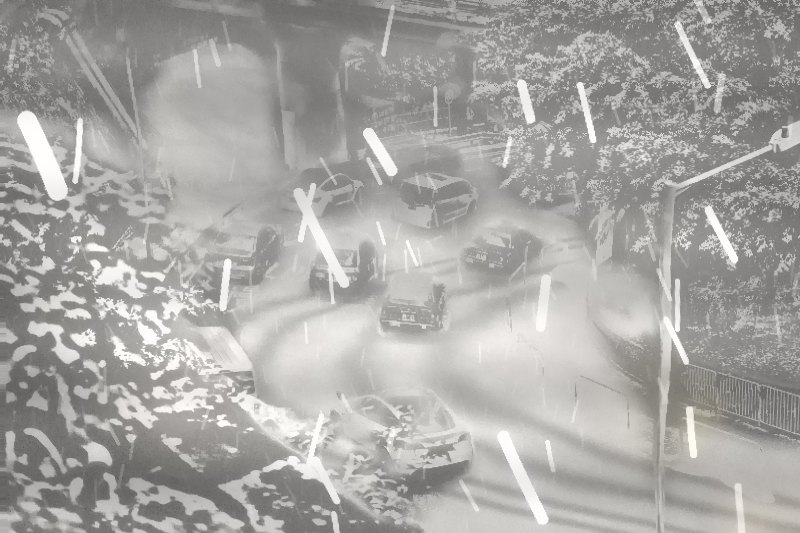
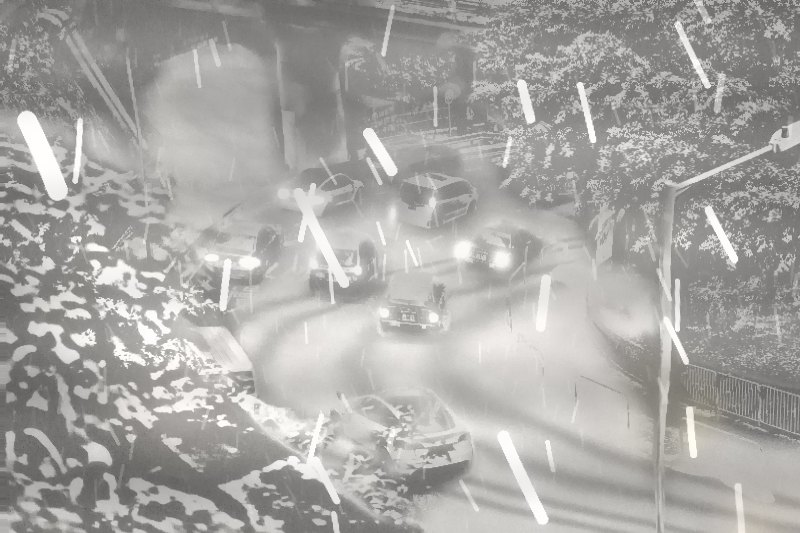
README and guides: what a provider can read, with samples, and lamps at night
The README's provider section covers the four readers, depth, labels,
geometry and vehicle views, with what each says, costs and is licensed
under, how to ask the provider for what it read, and a sample of each at
work. The road surface guide gains lamps at night, the pipelines guide
what a fuller provider changes there, and the scene gallery's infrared
night pictures are redrawn with the lamps lit.

diff --git a/docs/make_road_surface_figures.py b/docs/make_road_surface_figures.py
@@ -1,13 +1,15 @@
 """Draw the figures of ``docs/road_surface.md``.
 
-Four pictures, made from the photographs the galleries use, with a
+Five pictures, made from the photographs the galleries use, with a
 provider that carries scene labels and an estimated geometry:
 
 * the roads as the library reads them: painted lines, lane lines and the
   wheel tracks laid in the lanes;
 * settled snow without wheel tracks and with them;
 * each scene's vehicles as a network reads them: which end, and its lamps;
-* a soaked road as it was, and with its traffic's spray and lamps.
+* a soaked road as it was, and with its traffic's spray and lamps;
+* infrared night without a vehicle reader and with one, which lights the
+  traffic's lamps.
 
 Run from the repository root, on a machine with a CUDA GPU::
 
@@ -30,6 +32,7 @@ sys.path.insert(0, str(REPO))
 
 from docs.generate_scene_examples import SCENES, SCENES_DIR, _load  # noqa: E402
 from surmentations.atmosphere import RandomRain, RandomSnow  # noqa: E402
+from surmentations.camera.night_ir import NightIrMode  # noqa: E402
 from surmentations.depth import DepthAnythingV2Estimator, SharedDepthProvider  # noqa: E402
 from surmentations.perception import (  # noqa: E402
     GroundPlaneGeometryEstimator,
@@ -200,8 +203,25 @@ def compare(
     _save("wheel_tracks.jpg" if effect == "snow" else "wet_road_and_spray.jpg", tiles, 2)
 
 
+def night_lamps(images: dict[str, np.ndarray], depth: Any, labels: Any, vehicles: Any) -> None:
+    """Two scenes as an infrared night camera sees them: without a vehicle reader, and with one.
+
+    The same draw both times. A daylight photograph has its traffic's lamps
+    off; the reader says which end of each vehicle is seen and where its
+    lamps are, and they are lit.
+    """
+    tiles = []
+    for name in ("urban_road_day", "underpass_from_above"):
+        for reader in (None, vehicles):
+            provider = _provider(name, depth, labels, reader)
+            night = NightIrMode(depth_provider=provider, p=1.0)
+            night.set_random_seed(5)
+            tiles.append(night(image=images[name])["image"])
+    _save("night_lamps.jpg", tiles, 2)
+
+
 def main() -> None:
-    """Make the four figures."""
+    """Make the five figures."""
     depth, labels = DepthAnythingV2Estimator(), SegmentationLabelEstimator()
     images = {name: _photograph(name) for name in SHOWN}
     vehicles = OpenVocabularyVehicleEstimator()
@@ -210,6 +230,7 @@ def main() -> None:
     read_vehicles(images, providers)
     compare(images, providers, "snow")
     compare(images, providers, "rain")
+    night_lamps(images, depth, labels, vehicles)
     print(f"Wrote the figures to {OUT_DIR}")
 
 

diff --git a/docs/generate_scene_examples.py b/docs/generate_scene_examples.py
@@ -554,6 +554,8 @@ def _scene_readme(
         "and which only a provider that knows the road and its vehicles can draw. That",
         "provider also has a vehicle reader, which says which end of each vehicle is",
         "seen and where its lamps are; see [the road surface](../../../road_surface.md).",
+        "With that reader `night_ir` lights the traffic's lamps too, as it does whenever",
+        "a provider has one.",
         "",
     ]
     compared = [effect for effect in effects if effect in COMPARED]

diff --git a/README.md b/README.md
@@ -61,7 +61,7 @@ than exposed.
 - **[`docs/examples/scenes/`](docs/examples/scenes/README.md)** — every
   effect over eight photographs of different scenes, one page each, with
   the effects that read the scene shown side by side without and with scene
-  labels and geometry.
+  labels, geometry and the vehicle reader.
 - **[`plan.md`](plan.md)** — design record and roadmap.
 
 ---
@@ -163,45 +163,83 @@ With no CUDA device, constructing `DepthAnythingV2Estimator` raises a
 `RuntimeError` immediately with an actionable message, rather than silently
 falling back to a CPU path slow enough to blow a training-step budget.
 
-### Scene labels and installation geometry — optional
+### What a provider can read — optional
 
-Depth says how far away a pixel is, not what it is, and not where the
-camera stands. The same provider can work out both, once per scene:
+Depth says how far away a pixel is. It does not say what the pixel is,
+where the camera stands, or which way a car is facing. The same provider
+can read each of those, once per scene, and every transform given that
+provider uses whatever it has. Each reader is optional and independent of
+the others, except that the vehicle reader needs the labels to say where
+the vehicles are; a provider given none behaves as it always did.
+
+| Reader | Argument | What it says | Shipped estimator | Cost per new scene |
+| --- | --- | --- | --- | --- |
+| Depth | first argument | how far each pixel is | `DepthAnythingV2Estimator` (Apache-2.0) | 11–15 ms |
+| Scene labels | `labels=` | what each pixel is: road, sky, vegetation, vehicle, person … | `SegmentationLabelEstimator` (UperNet/ConvNeXt, MIT) | 33 ms |
+| Installation geometry | `geometry=` | the camera's field of view, tilt, roll and height | `GroundPlaneGeometryEstimator`, or an `InstallationGeometry` you give | 5 ms |
+| Vehicle views | `vehicles=` | each vehicle apart from its neighbours, which end of it is seen, where its lamps are | `OpenVocabularyVehicleEstimator` (OWLv2, Apache-2.0) | 130–200 ms |
 
 ```python
+from surmentations.depth import DepthAnythingV2Estimator, SharedDepthProvider
 from surmentations.perception import (
     GroundPlaneGeometryEstimator,
     InstallationGeometry,
+    OpenVocabularyVehicleEstimator,
     SegmentationLabelEstimator,
 )
 
 depth_provider = SharedDepthProvider(
     DepthAnythingV2Estimator(),
-    labels=SegmentationLabelEstimator(),        # road, sky, vegetation, vehicles ...
-    geometry=GroundPlaneGeometryEstimator(),    # horizon, tilt and height, from the frame
+    labels=SegmentationLabelEstimator(),          # road, sky, vegetation, vehicles ...
+    geometry=GroundPlaneGeometryEstimator(),      # horizon, tilt and height, from the frame
+    vehicles=OpenVocabularyVehicleEstimator(),    # which end of each vehicle, and its lamps
 )
 
 # A fixed camera whose mounting is known is better given than estimated:
 geometry = InstallationGeometry(horizontal_fov_deg=92.0, pitch_deg=24.0, height_m=6.5)
+
+# What the provider read off a frame:
+labels = depth_provider.get_labels(image)        # (H, W) uint8 of SceneClass
+camera = depth_provider.settle_camera(image)     # field of view, pitch, roll, height
+views = depth_provider.get_vehicles(image)       # one VehicleView per vehicle
 ```
 
-A third reader, `vehicles=OpenVocabularyVehicleEstimator()`, says which end
-of each vehicle is seen and where its lamps are, for the spray and the lit
-lamps of [`docs/road_surface.md`](docs/road_surface.md).
-
-With labels, a wet road stays off the vehicles on it and snow settles by
-name as well as by shape; the sky is the sky; foliage is bright in infrared
-night whatever colour it photographed as. With a geometry, every transform
-sees the frame through one camera in place of a field of view and a pitch
-drawn by each; a wet road mirrors about the true horizon; and where the
-camera's height is known, depth is in metres measured from it and
-`depth_range_m` is not needed. Both are evidence and not a verdict, and a
-provider given neither behaves as before.
-[`docs/scene_understanding.md`](docs/scene_understanding.md) has the
-figures, what the estimator can and cannot tell, and the licences of the
-networks.
+**Labels and geometry.** With labels, a wet road stays off the vehicles on
+it and snow settles by name as well as by shape; the sky is the sky; foliage
+is bright in infrared night whatever colour it photographed as. With a
+geometry, every transform sees the frame through one camera in place of a
+field of view and a pitch drawn by each; a wet road mirrors about the true
+horizon; and where the camera's height is known, depth is in metres measured
+from it and `depth_range_m` is not needed. Each scene below with its labels
+and the horizon the estimator found:
 
 ![what the provider reads off each sample scene](docs/assets/scene_understanding/labels_and_horizon.jpg)
+
+**Vehicle views.** A semantic mask runs touching vehicles together and
+says nothing of which way they face. The vehicle reader tells them apart,
+says which end of each is seen (green outlines are fronts, red are rears)
+and finds its lamps (yellow):
+
+![vehicles as the reader sees them](docs/assets/road_surface/vehicle_views.jpg)
+
+That is what `RandomRain` needs to lay spray behind each vehicle and light
+its lamps (`spray_range`, `vehicle_lamp_range`, `traffic_speed_range_kmh`),
+left as the road was and right with both:
+
+![a soaked road without and with its traffic's spray and lamps](docs/assets/road_surface/wet_road_and_spray.jpg)
+
+and what `NightIrMode` needs to light the traffic's lamps at night, which a
+daylight photograph has switched off. The same draw without the vehicle
+reader and with it:
+
+![infrared night without and with the vehicle reader](docs/assets/road_surface/night_lamps.jpg)
+
+All of these are evidence and not a verdict: an effect weighs what a reader
+says against what it reads from depth and colour itself.
+[`docs/scene_understanding.md`](docs/scene_understanding.md) has what each
+estimator can and cannot tell, its cost and the licences of the networks;
+[`docs/road_surface.md`](docs/road_surface.md) has the lanes, wheel tracks,
+standing water, spray and lamps that are drawn along a road.
 
 ---
 
@@ -248,7 +286,7 @@ parameters, samples and references. The tables here are the overview.
 
 | Transform | Models | Needs depth |
 | --- | --- | --- |
-| [`NightIrMode`](docs/transforms/NightIrMode.md) | IR-cut filter out: monochrome by *infrared* reflectance (foliage goes bright, which a luma conversion gets backwards), an illuminator falling as 1/z², gain-scaled noise | yes |
+| [`NightIrMode`](docs/transforms/NightIrMode.md) | IR-cut filter out: monochrome by *infrared* reflectance (foliage goes bright, which a luma conversion gets backwards), an illuminator falling as 1/z², gain-scaled noise; with a vehicle reader on the provider, the traffic's lamps lit | yes |
 | [`AcFlicker`](docs/transforms/AcFlicker.md) | Mains banding. Cancels exactly when the exposure is a whole number of flicker periods — the basis of a camera's anti-flicker setting | no |
 | [`RollingShutter`](docs/transforms/RollingShutter.md) | Row-dependent shear and wobble from camera motion during readout. One of the two transforms that move pixels, with `CameraVibration`, so masks, boxes and keypoints move with it | no |
 | [`SensorNoise`](docs/transforms/SensorNoise.md) | Shot and read noise in photoelectrons, set by sensor gain, drawn on the Bayer mosaic and demosaiced, so the grain is coarse and coloured as in a real low-light frame | no |
@@ -319,7 +357,7 @@ and the physics behind it.
 | `LensTamper` | `kinds` (spray, tape, cover), `coverage_range`, `opacity_range`, `shade_range` (by day), `glow_range` (infrared ring on) |
 | `FoliageIntrusion` | `branch_count_range`, `distance_range_m`, `leaf_length_range_mm`, `reach_range`, `sway_speed_range_m_s`, `illuminator_gain_range` (0 by day; at night also set `leaf_light_range` to 0), `beam_falloff_range` |
 | `FocusShift` | `focus_distance_range_m` (where the lens is in fact focused; nearer is worse), `aperture_diameter_range_mm`, `depth_provider` (optional) |
-| `NightIrMode` | `illuminator_range_m`, `beam_falloff_range`, `gain_range` (noise, not level), `read_noise_range`, `vegetation_gain_range` |
+| `NightIrMode` | `illuminator_range_m`, `beam_falloff_range`, `gain_range` (noise, not level), `read_noise_range`, `vegetation_gain_range`, `vehicle_lamp_range` (the traffic's lamps, lit where the provider's vehicle reader found them; nothing without one) |
 | `AcFlicker` | `mains_frequency_hz` (50 or 60), `readout_time_range_s` (sets the band *count*), `exposure_time_range_s` (sets the depth), `pulse_exponent_range`, `modulation_depth_range` |
 | `RollingShutter` | `pan_shift_range_px`, `wobble_amplitude_range_px`, `wobble_cycles_range` |
 | `SensorNoise` | `gain_range_db` (the knob: how few electrons make a full-scale picture), `full_well_range_e`, `read_noise_range_e` |

diff --git a/docs/road_surface.md b/docs/road_surface.md
@@ -19,6 +19,7 @@ both off the picture, and `RandomSnow` and `RandomRain` use them:
 | Spray behind vehicles | `RandomRain(spray_range=...)` | `(0.0, 0.0)`: off | scene labels |
 | How fast the traffic is going | `RandomRain(traffic_speed_range_kmh=...)` | `(40.0, 130.0)` | with spray |
 | The traffic's lamps, lit | `RandomRain(vehicle_lamp_range=...)` | `(0.0, 0.0)`: off | scene labels |
+| The traffic's lamps at night | `NightIrMode(vehicle_lamp_range=...)` | `(0.7, 1.3)` | a vehicle reader |
 
 "Scene labels" means a provider built with `labels=`
 ([scene understanding](scene_understanding.md)): they say where the road
@@ -316,6 +317,40 @@ dry has them off. `vehicle_lamp_range` lights them
   drawn, and the road reflects them as it does any lamp: a streak down the
   film towards the camera. Lamps the picture already shows burning are
   given the same glow.
+- **With no road.** A vehicle the reader read shows which end it shows
+  whether or not a road was read under it, and its lamps are lit from that
+  alone: at a junction seen from above, or with the ground left dry.
+
+### At night
+
+A photograph taken by day has its traffic's lamps off, and by night they
+are the brightest things in a frame. Two cases:
+
+- **A daylight frame made into a night one.**
+  [`NightIrMode`](transforms/NightIrMode.md) lights them itself, on a
+  provider with a vehicle reader: headlamps on each vehicle seen from the
+  front and tail lamps on each seen from behind, where the reader found
+  them, about six in seven vehicles and the rest left dark as parked ones
+  are. They are far over full scale, eight times further than in daylight
+  rain because the camera has opened up for the dark, and they bloom. They
+  are white whichever end they are on: with the infrared-cut filter out, a
+  red lamp is a bright lamp and no more. They are added as light, after the
+  illuminator's falloff and the auto-exposure, so neither dims them; and
+  whatever follows in a pipeline, `NightFog`, `NightRain`, `NightSnow`,
+  finds them as it finds any lamp in a frame. Without a vehicle reader no
+  lamp is lit: which end a vehicle shows is not something colour says in a
+  frame about to lose its colour. Light them here and not in `RandomRain`
+  before it, where they would be painted on the car and then dimmed with
+  it.
+- **A frame that was taken at night.** Its lamps are in it already.
+  `RandomRain` leaves a vehicle alone when a few of its pixels are at full
+  scale and the rest of it is dark, gives the lamps it finds burning the
+  glow it gives the ones it lights, and reflects them in the wet road. A
+  vehicle that is dark all over is lit, every one.
+
+The same draw without a vehicle reader and with one:
+
+![infrared night lamps](assets/road_surface/night_lamps.jpg)
 
 ## Limits
 
@@ -357,6 +392,12 @@ dry has them off. `vehicle_lamp_range` lights them
   are divided along the edges of their boxes, which is square where the
   vehicles are not; and far traffic it cannot tell apart stays one
   outline.
+- **Night lamps throw no light.** A headlamp lit by `NightIrMode` is a
+  bright point with a halo. It does not light the road ahead of it, and a
+  road wetted before the frame was made a night one does not reflect it.
+- **Frames taken at night with traffic in them were tested on drawn
+  frames only.** The sample scenes have no night photograph with a vehicle
+  in it.
 - **The traffic's speed is the caller's.** Nothing in a frame is read for
   it; the default range covers a town and a motorway and is right for
   neither.

diff --git a/docs/pipelines.md b/docs/pipelines.md
@@ -286,8 +286,11 @@ transform = surveillance(provider)
 
 The weather then falls through one camera, the wet road and the settled
 snow keep off what stands on them, and the infrared branch's illuminator
-works over the scene's real distances. See
-[`scene_understanding.md`](scene_understanding.md).
+works over the scene's real distances. A provider that also has a vehicle
+reader (`vehicles=OpenVocabularyVehicleEstimator()`) has `NightIrMode`
+light the traffic's lamps on that branch. `RandomRain`'s spray and its
+daytime lamps are parameters of its own, off by default, and the pipelines
+leave them off. See [`scene_understanding.md`](scene_understanding.md).
 
 ### Why `NightIrMode` is `p=1.0` *inside* its branch
 

diff --git a/docs/scene_understanding.md b/docs/scene_understanding.md
@@ -376,8 +376,8 @@ AGPL. Classical tail-lamp detection, red by colour and paired by symmetry
 already is, and has no counterpart for an unlit headlamp by day. OWLv2 is
 Apache-2.0.
 
-**What uses it.** `RandomRain`'s spray and lamps
-([`road_surface.md`](road_surface.md)). Each vehicle told apart has its
+**What uses it.** `RandomRain`'s spray and lamps, and `NightIrMode`'s
+lamps ([`road_surface.md`](road_surface.md)). Each vehicle told apart has its
 own wake, its own place in the mist and its own lamps. A vehicle the
 network is sure of keeps its own reading; the rest go with their road's
 traffic; one it did not read is read by colour as before. A vehicle it

diff --git a/docs/examples/scenes/street_night/README.md b/docs/examples/scenes/street_night/README.md
@@ -48,6 +48,8 @@ and its lamps (`spray_range`, `vehicle_lamp_range`), which are off by default
 and which only a provider that knows the road and its vehicles can draw. That
 provider also has a vehicle reader, which says which end of each vehicle is
 seen and where its lamps are; see [the road surface](../../../road_surface.md).
+With that reader `night_ir` lights the traffic's lamps too, as it does whenever
+a provider has one.
 
 | `rain` without | `rain` with |
 | --- | --- |

diff --git a/docs/examples/scenes/crosswalk_day/README.md b/docs/examples/scenes/crosswalk_day/README.md
@@ -48,6 +48,8 @@ and its lamps (`spray_range`, `vehicle_lamp_range`), which are off by default
 and which only a provider that knows the road and its vehicles can draw. That
 provider also has a vehicle reader, which says which end of each vehicle is
 seen and where its lamps are; see [the road surface](../../../road_surface.md).
+With that reader `night_ir` lights the traffic's lamps too, as it does whenever
+a provider has one.
 
 | `fog` without | `fog` with |
 | --- | --- |

diff --git a/docs/examples/scenes/mountain/README.md b/docs/examples/scenes/mountain/README.md
@@ -48,6 +48,8 @@ and its lamps (`spray_range`, `vehicle_lamp_range`), which are off by default
 and which only a provider that knows the road and its vehicles can draw. That
 provider also has a vehicle reader, which says which end of each vehicle is
 seen and where its lamps are; see [the road surface](../../../road_surface.md).
+With that reader `night_ir` lights the traffic's lamps too, as it does whenever
+a provider has one.
 
 | `fog` without | `fog` with |
 | --- | --- |

diff --git a/docs/examples/scenes/parking_garage/README.md b/docs/examples/scenes/parking_garage/README.md
@@ -48,6 +48,8 @@ and its lamps (`spray_range`, `vehicle_lamp_range`), which are off by default
 and which only a provider that knows the road and its vehicles can draw. That
 provider also has a vehicle reader, which says which end of each vehicle is
 seen and where its lamps are; see [the road surface](../../../road_surface.md).
+With that reader `night_ir` lights the traffic's lamps too, as it does whenever
+a provider has one.
 
 | `fog` without | `fog` with |
 | --- | --- |

diff --git a/docs/examples/scenes/underpass_from_above/README.md b/docs/examples/scenes/underpass_from_above/README.md
@@ -48,6 +48,8 @@ and its lamps (`spray_range`, `vehicle_lamp_range`), which are off by default
 and which only a provider that knows the road and its vehicles can draw. That
 provider also has a vehicle reader, which says which end of each vehicle is
 seen and where its lamps are; see [the road surface](../../../road_surface.md).
+With that reader `night_ir` lights the traffic's lamps too, as it does whenever
+a provider has one.
 
 | `fog` without | `fog` with |
 | --- | --- |

diff --git a/docs/examples/scenes/urban_road_day/README.md b/docs/examples/scenes/urban_road_day/README.md
@@ -48,6 +48,8 @@ and its lamps (`spray_range`, `vehicle_lamp_range`), which are off by default
 and which only a provider that knows the road and its vehicles can draw. That
 provider also has a vehicle reader, which says which end of each vehicle is
 seen and where its lamps are; see [the road surface](../../../road_surface.md).
+With that reader `night_ir` lights the traffic's lamps too, as it does whenever
+a provider has one.
 
 | `fog` without | `fog` with |
 | --- | --- |
